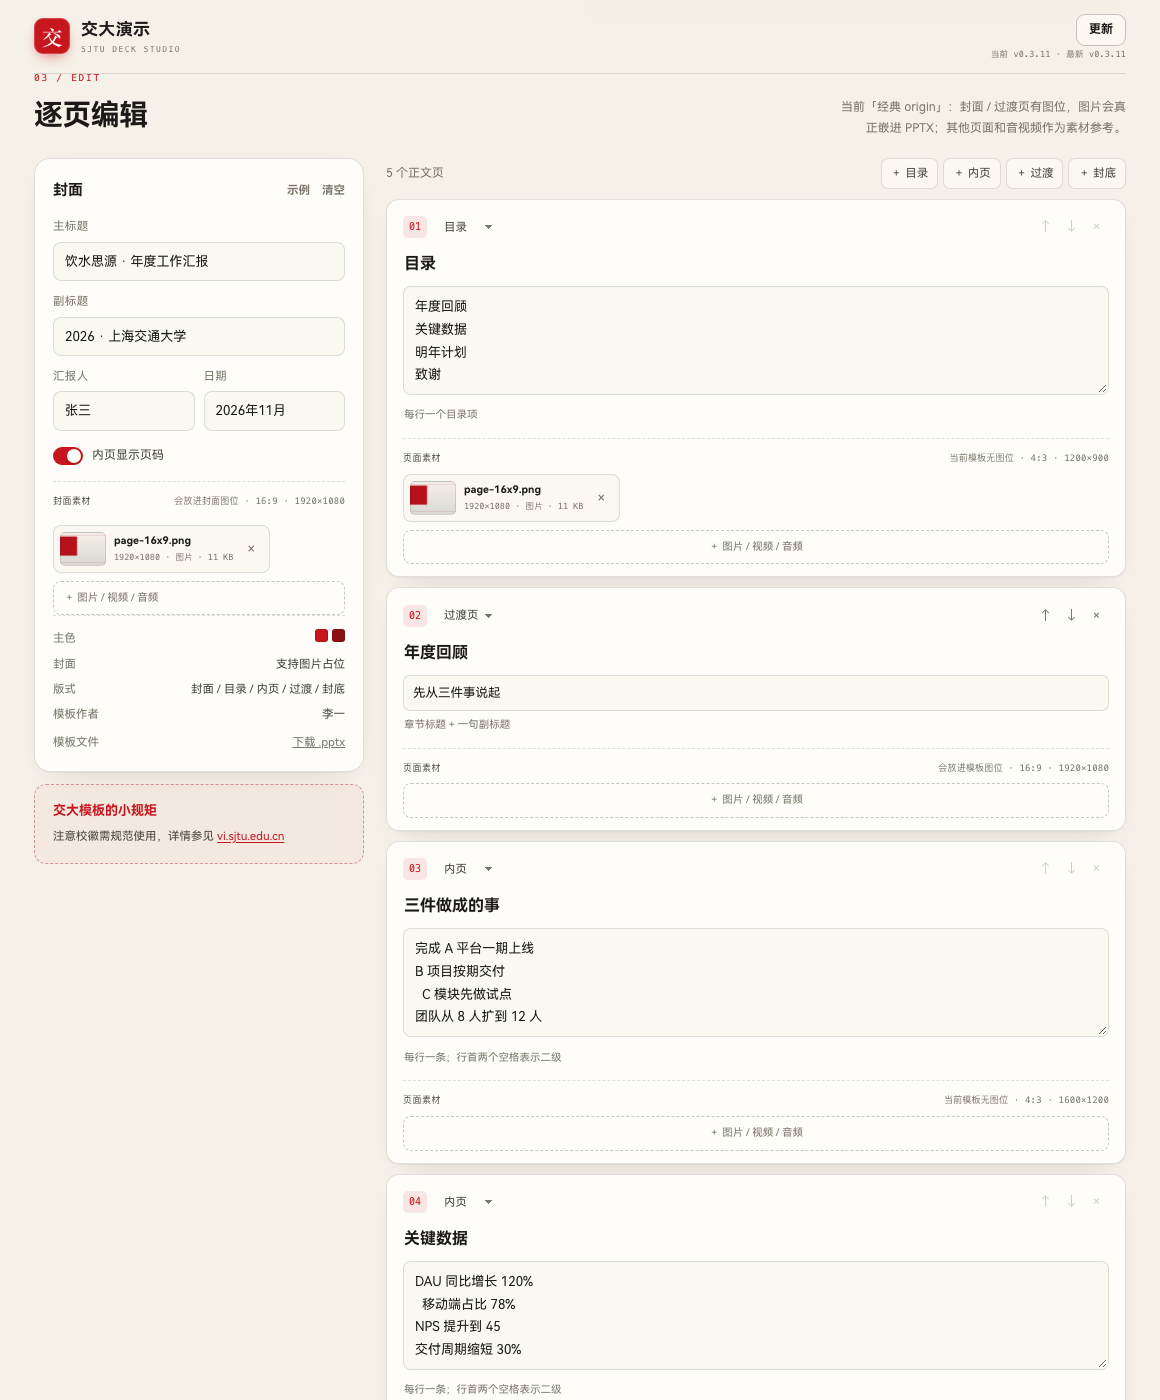
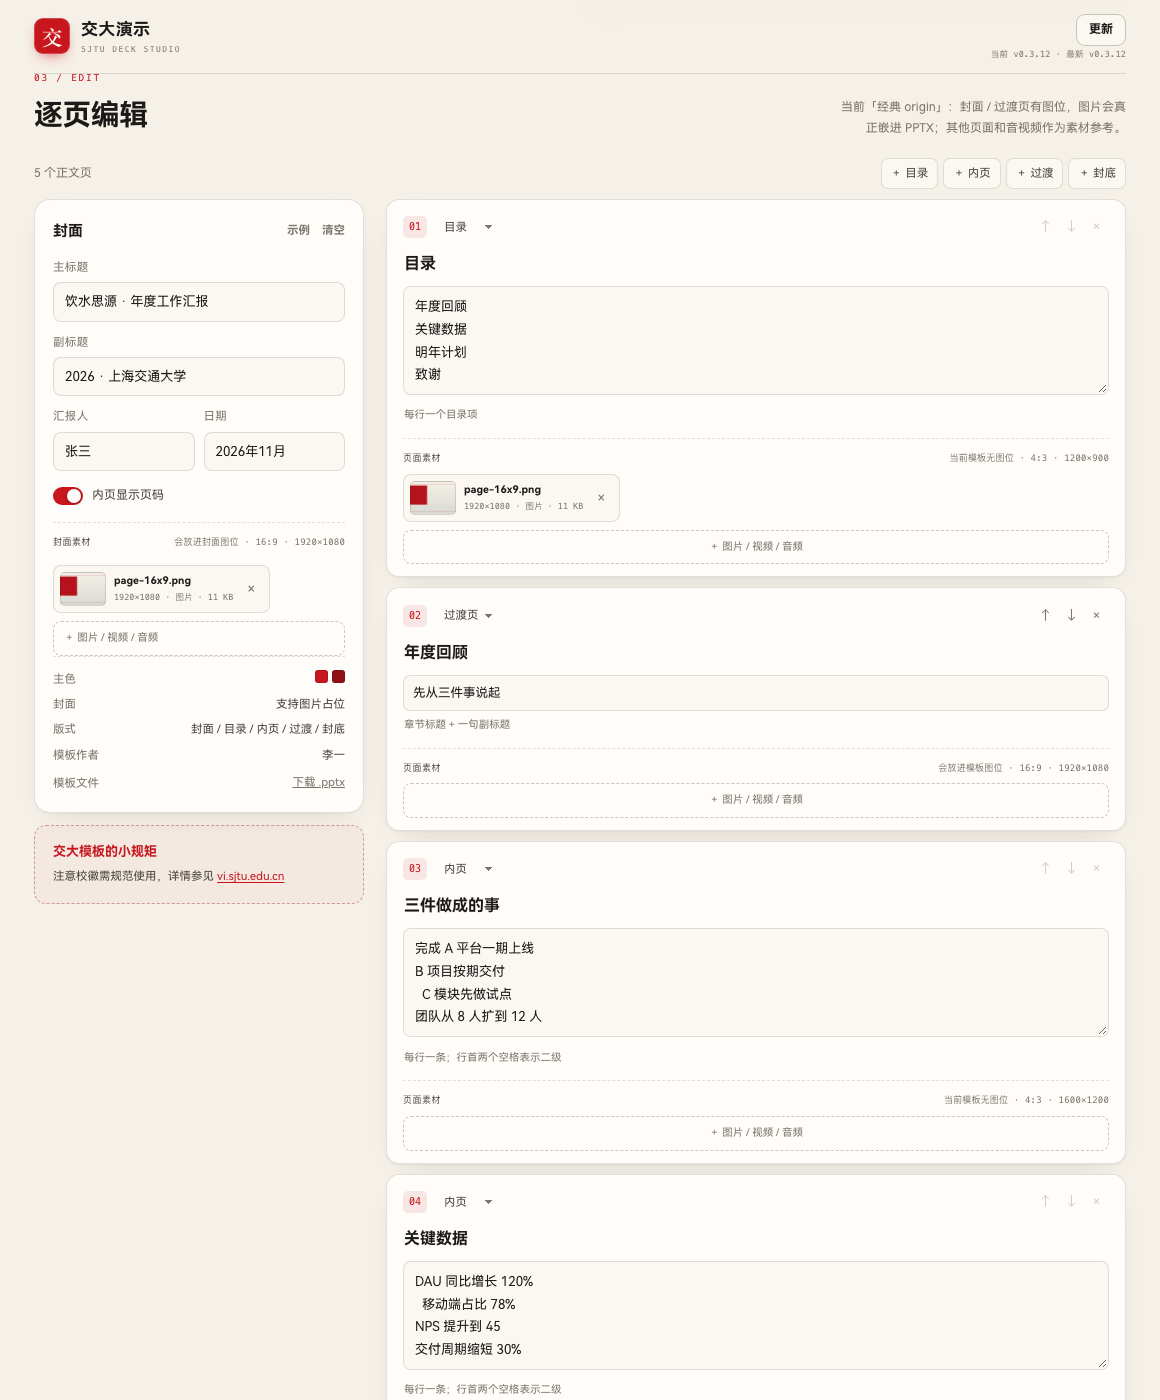
fix: align edit panel cards

Changed region(s): [[0.031, 0.1229, 0.3103, 0.645], [0.2483, 0.1229, 0.3103, 0.1843]]

diff --git a/web/index.html b/web/index.html
@@ -168,6 +168,15 @@
             <p class="block-note" id="editNote">封面和每一页都能补素材。选择模板后，这里会说明图片会进图位还是只作参考。</p>
           </div>
 
+          <div class="slide-toolbar compose-toolbar">
+            <span id="slideCount">0 个正文页</span>
+            <div class="add-actions">
+              <button type="button" data-add="toc">＋ 目录</button>
+              <button type="button" data-add="content">＋ 内页</button>
+              <button type="button" data-add="section">＋ 过渡</button>
+              <button type="button" data-add="end">＋ 封底</button>
+            </div>
+          </div>
           <div class="compose">
             <aside class="compose-aside">
               <div class="card cover-form">
@@ -218,15 +227,6 @@
             </aside>
 
             <div class="compose-main">
-              <div class="slide-toolbar">
-                <span id="slideCount">0 个正文页</span>
-                <div class="add-actions">
-                  <button type="button" data-add="toc">＋ 目录</button>
-                  <button type="button" data-add="content">＋ 内页</button>
-                  <button type="button" data-add="section">＋ 过渡</button>
-                  <button type="button" data-add="end">＋ 封底</button>
-                </div>
-              </div>
               <div class="slide-list" id="slideList"></div>
             </div>
           </div>

diff --git a/lib/index.js b/lib/index.js
@@ -1,4 +1,4 @@
-// 交大演示 · DeepSeek Harness 插件：Host 半边（0.3.11 校徽提示）
+// 交大演示 · DeepSeek Harness 插件：Host 半边（0.3.12 编辑对齐）
 // 1. 把随附的 sjtu-ppt skill 注册进 ctx.skills，模型和 /sjtu-ppt 命令都能用
 //    再给模型一个生成工具 sjtu_ppt_generate（lib/tool.js）
 // 2. /sjtu-ppt/                    侧栏页面（web/）
